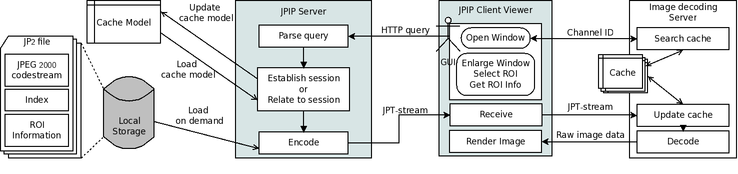
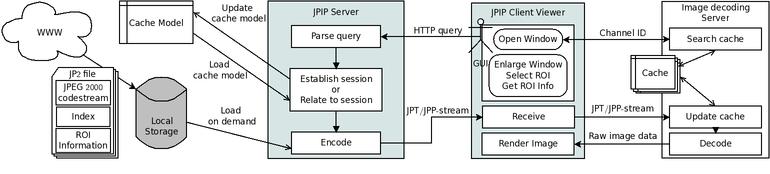
[trunk] Merge rev 1068 into trunk

diff --git a/applications/jpip/libopenjpip/target_manager.c b/applications/jpip/libopenjpip/target_manager.c
@@ -36,6 +36,7 @@
 #include <unistd.h>
 #include <fcntl.h>
 #include <time.h>
+#include <curl/curl.h>
 #include "target_manager.h"
 
 #ifdef SERVER
@@ -64,24 +65,26 @@ targetlist_param_t * gene_targetlist()
 /**
  * open jp2 format image file
  *
- * @param[in] filename file name (.jp2)
- * @return             file descriptor
+ * @param[in]  filepath file name (.jp2)
+ * @param[out] tmpfname new file name if filepath is a URL
+ * @return              file descriptor
  */
-int open_jp2file( char filename[]);
+int open_jp2file( char filepath[], char tmpfname[]);
 
 target_param_t * gene_target( targetlist_param_t *targetlist, char *targetpath)
 {
   target_param_t *target;
   int fd;
   index_param_t *jp2idx;
+  char tmpfname[MAX_LENOFTID];
   static int last_csn = 0;
-
+  
   if( targetpath[0]=='\0'){
     fprintf( FCGI_stderr, "Error: exception, no targetpath in gene_target()\n");
     return NULL;
   }
 
-  if((fd = open_jp2file( targetpath)) == -1){
+  if((fd = open_jp2file( targetpath, tmpfname)) == -1){
     fprintf( FCGI_stdout, "Status: 404\r\n"); 
     return NULL;
   }
@@ -93,7 +96,7 @@ target_param_t * gene_target( targetlist_param_t *targetlist, char *targetpath)
 
   target = (target_param_t *)malloc( sizeof(target_param_t));
   snprintf( target->tid, MAX_LENOFTID, "%x-%x", (unsigned int)time(NULL), (unsigned int)rand());
-  target->filename = strdup( targetpath); 
+  target->targetname = strdup( targetpath); 
   target->fd = fd;
 #ifdef SERVER
   if( tmpfname[0])
@@ -145,12 +148,12 @@ void delete_target( target_param_t **target)
 
   if( (*target)->codeidx)
     delete_index ( &(*target)->codeidx);
-
+  
 #ifndef SERVER
-  fprintf( logstream, "local log: target: %s deleted\n", (*target)->filename);
+  fprintf( logstream, "local log: target: %s deleted\n", (*target)->targetname);
 #endif
 
-  free( (*target)->filename);
+  free( (*target)->targetname);
 
   free(*target);
 }
@@ -193,7 +196,7 @@ void print_target( target_param_t *target)
   fprintf( logstream, "target:\n");
   fprintf( logstream, "\t tid=%s\n", target->tid);
   fprintf( logstream, "\t csn=%d\n", target->csn);
-  fprintf( logstream, "\t target=%s\n\n", target->filename);
+  fprintf( logstream, "\t target=%s\n\n", target->targetname);
 }
 
 void print_alltarget( targetlist_param_t *targetlist)
@@ -215,7 +218,7 @@ target_param_t * search_target( char targetname[], targetlist_param_t *targetlis
   
   while( foundtarget != NULL){
     
-    if( strcmp( targetname, foundtarget->filename) == 0)
+    if( strcmp( targetname, foundtarget->targetname) == 0)
       return foundtarget;
       
     foundtarget = foundtarget->next;
@@ -252,18 +255,26 @@ int open_jp2file( char filepath[], char tmpfname[])
     if( (fd = open_remotefile( filepath, tmpfname)) == -1)
       return -1;
   }
+  else{
+    tmpfname[0] = 0;
+    if( (fd = open( filepath, O_RDONLY)) == -1){
+      fprintf( FCGI_stdout, "Reason: Target %s not found\r\n", filepath);
+      return -1;
+    }
+  }
   // Check resource is a JP family file.
   if( lseek( fd, 0, SEEK_SET)==-1){
     close(fd);
-    fprintf( FCGI_stdout, "Reason: Target %s broken (lseek error)\r\n", filename);
+    fprintf( FCGI_stdout, "Reason: Target %s broken (lseek error)\r\n", filepath);
     return -1;
   }
   
   data = (char *)malloc( 12); // size of header
+
   if( read( fd, data, 12) != 12){
     free( data);
     close(fd);
-    fprintf( FCGI_stdout, "Reason: Target %s broken (read error)\r\n", filename);
+    fprintf( FCGI_stdout, "Reason: Target %s broken (read error)\r\n", filepath);
     return -1;
   }
     
@@ -271,10 +282,12 @@ int open_jp2file( char filepath[], char tmpfname[])
       *(data + 3) != 12 || strncmp (data + 4, "jP  \r\n\x87\n", 8)){
     free( data);
     close(fd);
-    fprintf( FCGI_stdout, "Reason: No JPEG 2000 Signature box in target %s\r\n", filename);
+    fprintf( FCGI_stdout, "Reason: No JPEG 2000 Signature box in target %s\r\n", filepath);
     return -1;
   } 
+
   free( data);
+
   return fd;
 }
 

diff --git a/applications/jpip/util/opj_server.c b/applications/jpip/util/opj_server.c
@@ -95,17 +95,18 @@ int main(void)
       
       qr = parse_querystring( query_string);
       
-      if( !(parse_status = process_JPIPrequest( server_record, qr)))
-	fprintf( FCGI_stderr, "Error: JPIP request failed\n");
-
+      parse_status = process_JPIPrequest( server_record, qr);
+      
 #ifndef SERVER
       local_log( true, true, parse_status, false, qr, server_record);
 #endif
             
       if( parse_status)
-	send_responsedata( server_record, qr);
-      else
+	send_responsedata( qr);
+      else{
 	fprintf( FCGI_stderr, "Error: JPIP request failed\n");
+  fprintf( FCGI_stdout, "\r\n");
+    }
       
       end_QRprocess( server_record, &qr);
     }

diff --git a/applications/jpip/libopenjpip/channel_manager.c b/applications/jpip/libopenjpip/channel_manager.c
@@ -150,7 +150,7 @@ void print_allchannel( channellist_param_t *channellist)
 
   ptr = channellist->first;
   while( ptr != NULL){
-    fprintf( logstream,"channel-ID=%s \t target=%s\n", ptr->cid, ptr->cachemodel->target->filename);
+    fprintf( logstream,"channel-ID=%s \t target=%s\n", ptr->cid, ptr->cachemodel->target->targetname);
     ptr=ptr->next;
   }
 }

diff --git a/applications/jpip/libopenjpip/cachemodel_manager.c b/applications/jpip/libopenjpip/cachemodel_manager.c
@@ -118,7 +118,7 @@ void print_cachemodel( cachemodel_param_t cachemodel)
 
   target = cachemodel.target;
   
-  fprintf( logstream, "target: %s\n", target->filename);
+  fprintf( logstream, "target: %s\n", target->targetname);
   fprintf( logstream, "\t main header model: %d\n", cachemodel.mhead_model);
 
   fprintf( logstream, "\t tile part model:\n");

diff --git a/applications/jpip/libopenjpip/target_manager.h b/applications/jpip/libopenjpip/target_manager.h
@@ -137,9 +137,9 @@ void print_alltarget( targetlist_param_t *targetlist);
 
 
 /**
- * search a target by filename
+ * search a target by target name
  *
- * @param[in] targetname target filename
+ * @param[in] targetname target name
  * @param[in] targetlist target list pointer
  * @return               found target pointer
  */

diff --git a/applications/jpip/mainpage.h b/applications/jpip/mainpage.h
@@ -52,6 +52,7 @@
  * \section reqlibs Required libraries
  *  - OpenJPEG library
  *  - FastCGI development kit (C libraries) at server (http://www.fastcgi.com)
+ *  - libcURL library
  *
  *  We tested this software with a virtual server running on the same Linux machine as the clients.
  *
